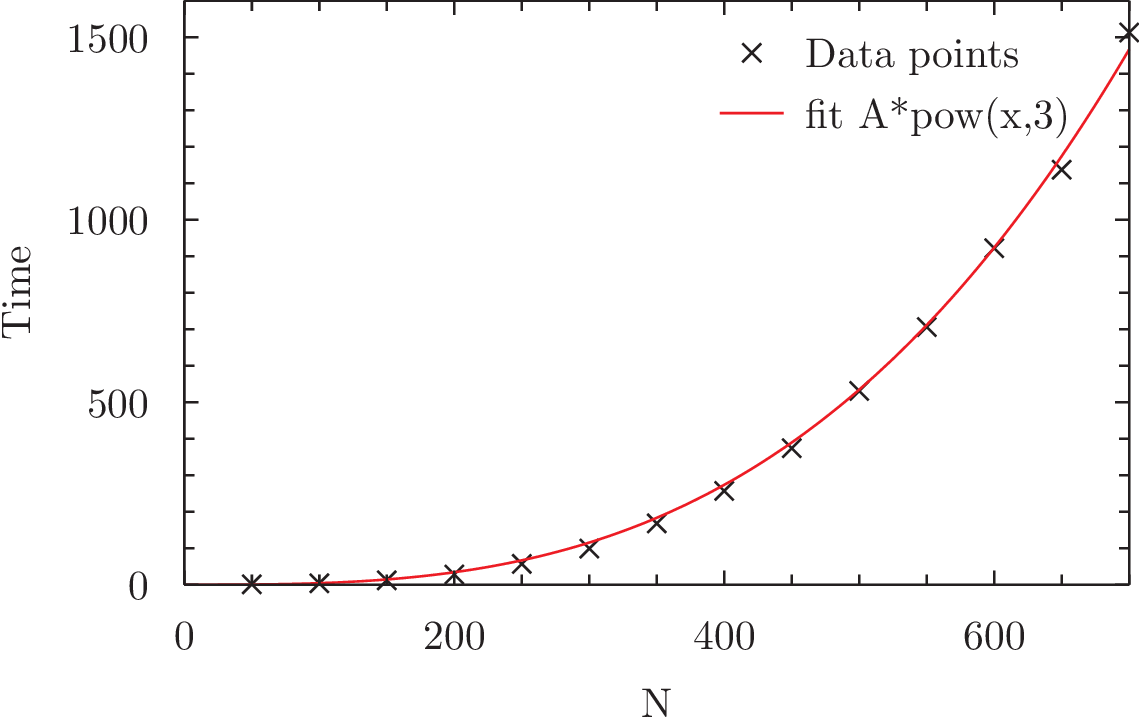
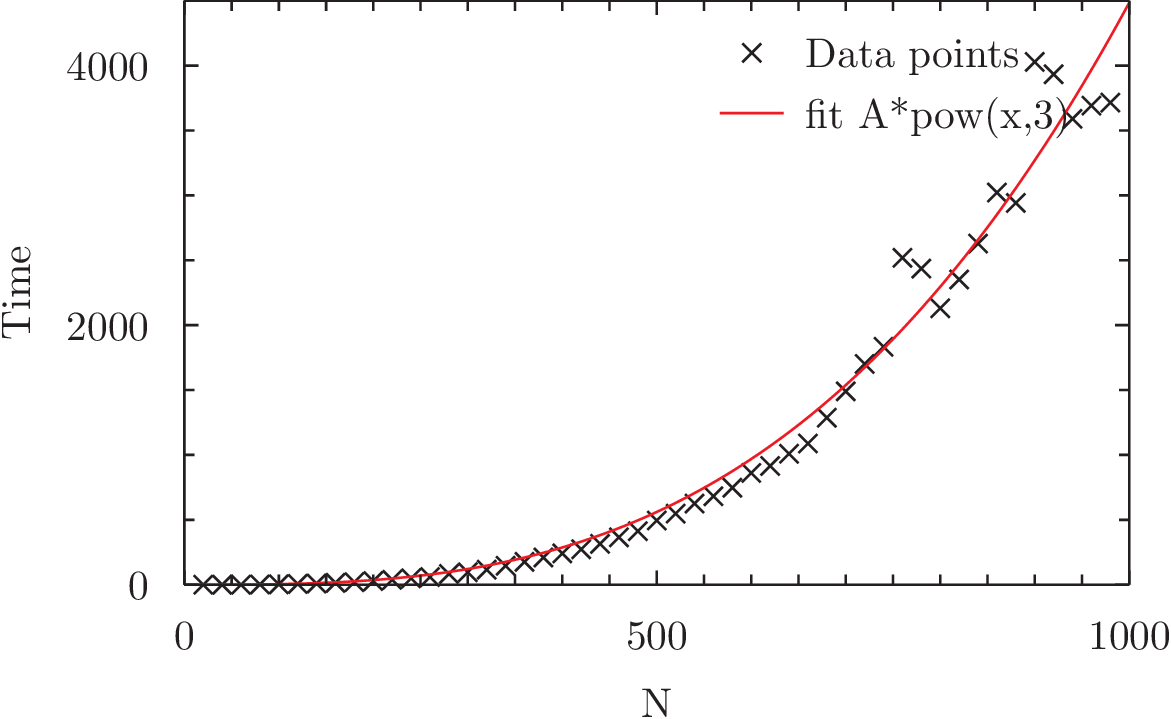
updated LinearEq part C

diff --git a/homework/LinearEq/C/main.cs b/homework/LinearEq/C/main.cs
@@ -7,7 +7,7 @@ class main{
 	static void Main(){
 		var watch = new Stopwatch();
 		Random rnd = new Random(); 
-		for(int n=50; n<750; n+=50){
+		for(int n=20; n<1000; n+=20){
 			matrix A = new matrix(n,n); 
 			watch.Restart();
 				for(int i=0; i<n; i++)
